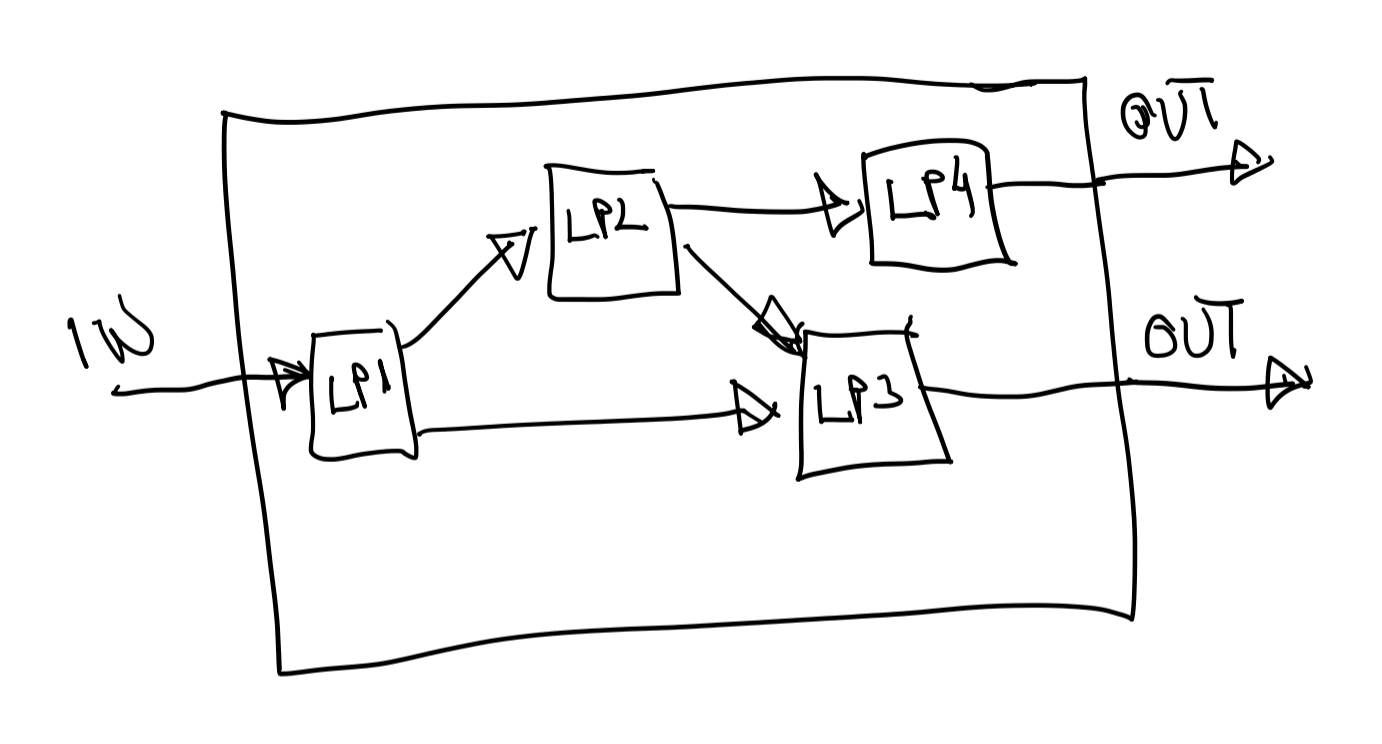
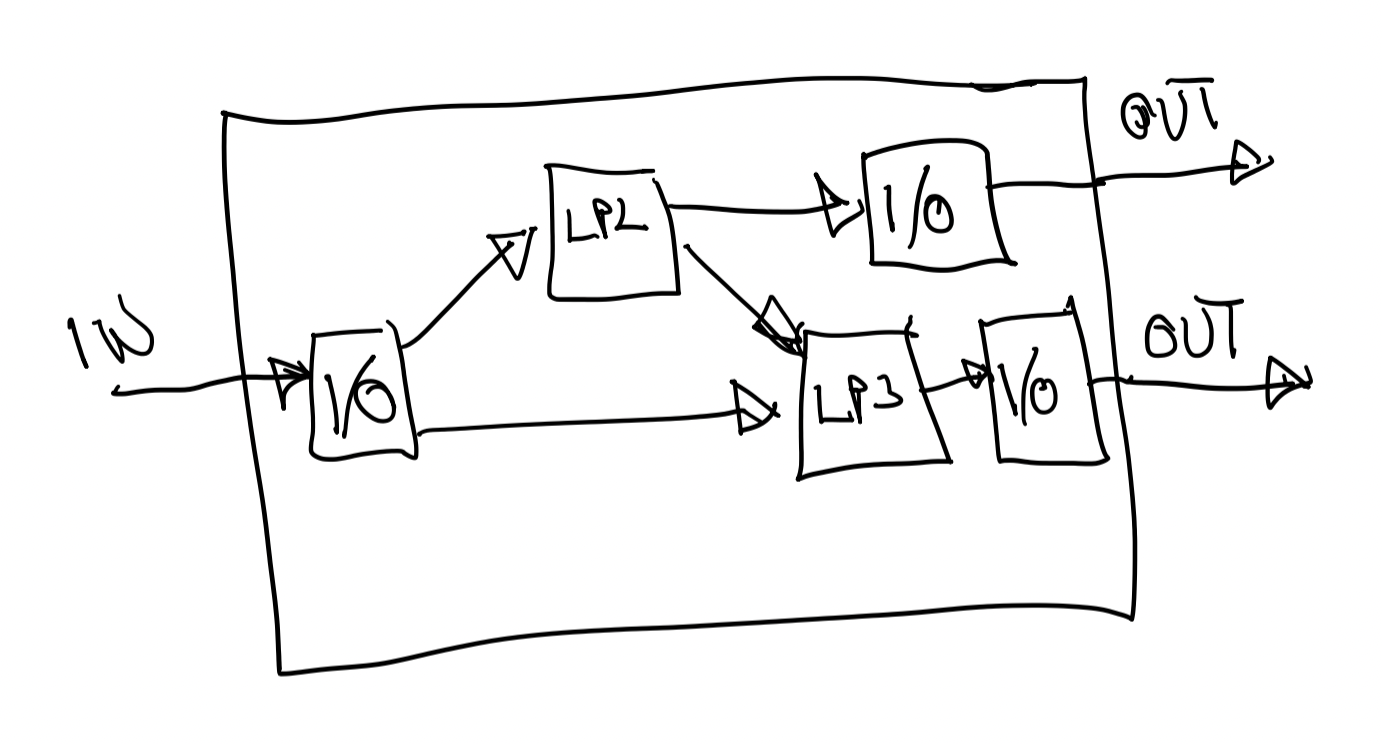
README update

diff --git a/README.md b/README.md
@@ -44,7 +44,23 @@ in the same manner the ZK constraint circuit can represent elaborate calculation
 
 The implementation is running on multiple EVMs and it is written in Solidity. The sample ZK component’s prover is written in Aztec Noir. The Smart Contract that represents the multi-protocol LP is generic, and various protocols can be added as long as they implement our specific interface for creation, deposit/withdrawal and transactions. I also implemented the sample concentrated liquidity swap pool, lending pool and constant-sum ZK swap pool. The latter is the simplest example of ZK pool, but in reality, more complicated protocols can be implemented in this manner in order to save on gas by calculating the constraints off-chain.
 
-## Examples implemented
+The execution call sequence consists of:
+1. setting up a route.
+2. calling ```execute(route)```.
+
+```execute(route)``` in turn:
+1. performs the asset transfers, real for input and output funds, and just accounting for inter-LP transfers.
+2. At the end, it loops through each LP present in the route and calls ```happy()``` for each LP. This checks the constraints and reverts if they are not met.
+
+### Multiple asset transfers per member protocol
+
+Instead of having an input and an output, each member protocol can deal with multiple assets and have multiple inputs and outputs, thus turning the Route into a Directed Acyclic Graph (DAG). This provides a more general functionality for multi-asset protocols:
+![mplpdag](./img/mplpdag.png) 
+
+This was implemented via a special Input/Output member protocol, which acts as any other protocol but only transfers
+the actual assets in and out.
+
+## Examples member protocols implemented
 
 ### Greatly simplified concentrated liquidity pool
 
@@ -53,7 +69,8 @@ In addition the changes of the real assets enforce changes in the virtual assets
 As the real assets are much less available, the liquidity is concentrated.
 When the accounting demands a payout to the next LP in the route,
 if the desired asset is not available in the required quantity, the constraint reverts,
-thus enforcing the concentrated liquidity. 
+thus enforcing the concentrated liquidity:
+![clpcp](./img/clpcp.png)
 
 This implementation is much simpler than the Uniswap V3 and V4 concentrated liquidity pools,
 and they use V2 arithmetic instead of tick math.
@@ -96,11 +113,6 @@ As the accounting is generic, the routes can compose multi-leg positions
 that are easily and inexpensively managed.
 
 ## Future work
-
-### Multiple asset transfers per member protocol
-
-Instead of having an input and an output, each member protocol can deal with multiple assets and have multiple inputs and outputs, thus turning the Route into a Directed Acyclic Graph (DAG). This would provide a more general functionality for multi-asset protocols:
-![mplpdag](./img/mplpdag.png) 
 
 ### Flash Loans and Hooks
 
